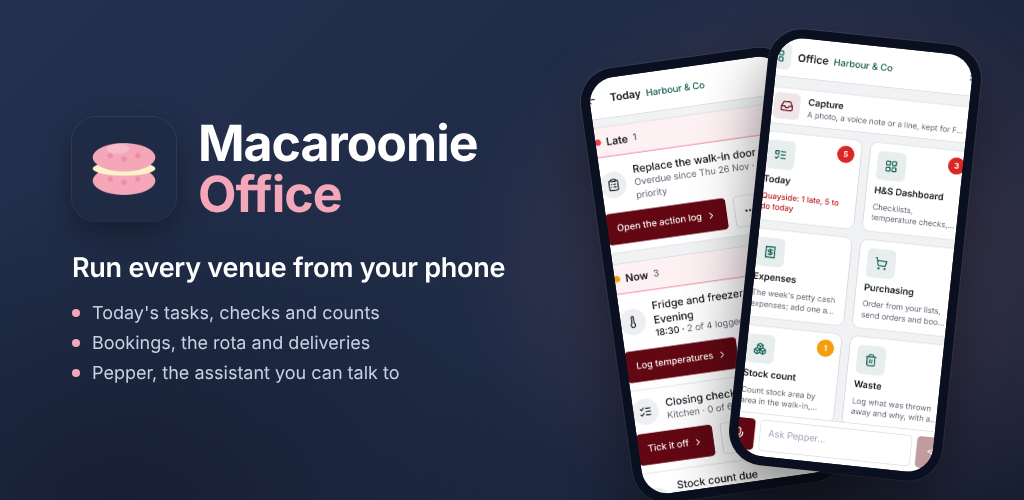
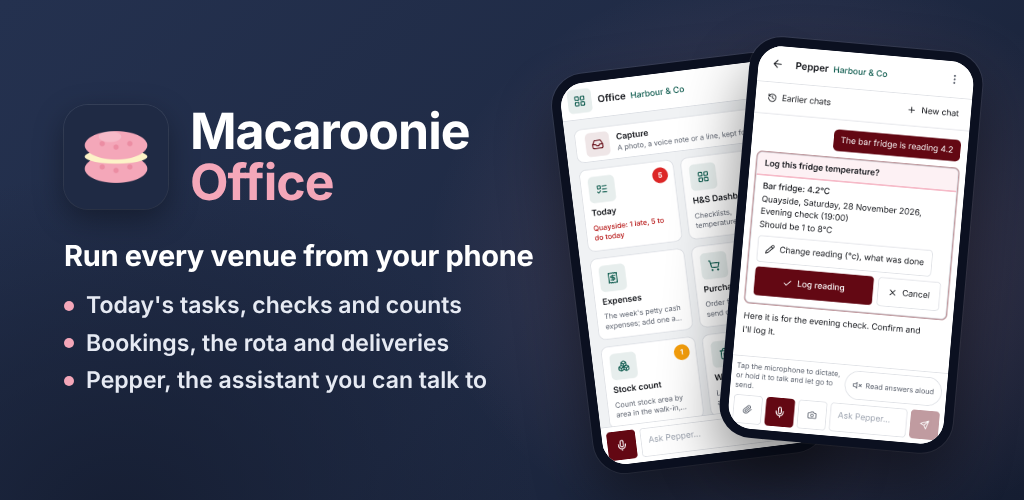
Office app store assets: review fixes (rota, fridge sheet, feature graphic, Pepper screenshot, listing notes)
- Rota: a usual week per person with the days off early in the week, so
  Saturday has the most on (9) and every service has a chef; the fridge
  temps and the count lines are credited to cooks on today's rota.
- Fridge check: taken without the 12 px band above the sheet's backdrop
  (the sheet sits in Today's space-y list, a page bug), Today from its top
  behind it.
- Feature graphic: each phone's screen is 9:16, so no screen is cut off at
  the sides; Pepper in front; bigger, brighter bullet lines.
- New 02-pepper.png: a fridge reading said aloud and its card to confirm,
  from Pepper's real chat and tool on the demo data (the API tests' model
  stand-in says Pepper's words; no model is called). Screenshots renumbered
  01-hub to 07-rota.
- store-listing.md: keep the reviewers' demo account working while the app
  is listed; Files and docs in Data safety; users do exchange content
  (notices through Pepper, shared records) for the content rating; a short
  delete-account page for Play's deletion link.

Claude-Session: https://claude.ai/code/session_01N2DW333qJQDiQd2vhFU15s

diff --git a/office-app/store-assets/android/feature-graphic.html b/office-app/store-assets/android/feature-graphic.html
@@ -1,41 +1,44 @@
 <!doctype html>
 <!-- The Google Play feature graphic (1024 x 500), drawn by make-assets.mjs:
      the app icon, the name and what it is for on the brand navy, with two of
-     the phone screenshots in a plain frame (no maker's device or marks). The
-     words stay inside the middle of the picture, where Play never crops. -->
+     the phone screenshots in a plain frame (no maker's device or marks). Each
+     frame's screen is 9:16, the screenshots' own shape, so the whole of each
+     screen shows, nothing cut off its sides. The words and both phones stay
+     well inside the edges, where Play may crop. -->
 <html lang="en">
 <head>
 <meta charset="utf-8">
 <title>Macaroonie Office feature graphic</title>
 <style>
-  :root { --navy: #1f2a44; --navy-deep: #151d31; --pink: #f4a7b9; --cream: #fbf3cd; --ink: #ffffff; --soft: #c9d1e3; }
+  :root { --navy: #1f2a44; --navy-deep: #151d31; --pink: #f4a7b9; --ink: #ffffff; --soft: #e6eaf3; }
   * { box-sizing: border-box; margin: 0; padding: 0; }
   html, body { width: 1024px; height: 500px; overflow: hidden; background: var(--navy); }
   body { font-family: Inter, 'Helvetica Neue', Arial, sans-serif; color: var(--ink); position: relative; }
   .glow { position: absolute; inset: 0; background:
-    radial-gradient(520px 420px at 820px 260px, rgba(244, 167, 185, 0.20), transparent 70%),
+    radial-gradient(520px 420px at 790px 260px, rgba(244, 167, 185, 0.20), transparent 70%),
     radial-gradient(600px 500px at 120px 520px, rgba(21, 29, 49, 0.9), transparent 70%),
     linear-gradient(135deg, #24314f 0%, var(--navy) 55%, var(--navy-deep) 100%); }
-  .words { position: absolute; left: 72px; top: 0; bottom: 0; width: 520px; display: flex; flex-direction: column; justify-content: center; gap: 0; }
+  .words { position: absolute; left: 64px; top: 0; bottom: 0; width: 480px; display: flex; flex-direction: column; justify-content: center; }
   .brand { display: flex; align-items: center; gap: 22px; }
   .brand img { width: 104px; height: 104px; border-radius: 24px; box-shadow: 0 10px 30px rgba(0, 0, 0, 0.35), 0 0 0 1px rgba(255, 255, 255, 0.10); }
   h1 { font-size: 50px; line-height: 1.02; font-weight: 700; letter-spacing: -0.02em; }
   h1 span { display: block; color: var(--pink); }
-  .line { margin-top: 30px; font-size: 27px; line-height: 1.25; font-weight: 600; letter-spacing: -0.01em; }
-  ul { margin-top: 18px; list-style: none; display: grid; gap: 9px; }
-  li { font-size: 18px; color: var(--soft); display: flex; align-items: center; gap: 12px; }
-  li::before { content: ''; width: 8px; height: 8px; border-radius: 50%; background: var(--pink); flex: none; }
-  .phone { position: absolute; width: 214px; height: 438px; border-radius: 34px; background: #0b1020; padding: 9px;
+  .line { margin-top: 30px; font-size: 29px; line-height: 1.2; font-weight: 700; letter-spacing: -0.01em; }
+  ul { margin-top: 18px; list-style: none; display: grid; gap: 10px; }
+  li { font-size: 23px; line-height: 1.2; font-weight: 600; color: var(--soft); display: flex; align-items: center; gap: 12px; }
+  li::before { content: ''; width: 10px; height: 10px; border-radius: 50%; background: var(--pink); flex: none; }
+  /* The screen inside each frame: 216 x 384, exactly 9:16. */
+  .phone { position: absolute; width: 234px; height: 402px; border-radius: 32px; background: #0b1020; padding: 9px;
     box-shadow: 0 30px 60px rgba(0, 0, 0, 0.45), 0 0 0 1px rgba(255, 255, 255, 0.08); }
-  .phone img { width: 100%; height: 100%; border-radius: 26px; display: block; object-fit: cover; object-position: top; }
-  .back { left: 606px; top: 56px; transform: rotate(-8deg); }
-  .front { left: 748px; top: 36px; transform: rotate(6deg); }
+  .phone img { width: 216px; height: 384px; border-radius: 24px; display: block; object-fit: contain; background: #fff; }
+  .back { left: 572px; top: 62px; transform: rotate(-7deg); }
+  .front { left: 734px; top: 44px; transform: rotate(5deg); }
 </style>
 </head>
 <body>
   <div class="glow"></div>
-  <div class="phone back"><img src="screenshots/02-today.png" alt=""></div>
-  <div class="phone front"><img src="screenshots/01-hub.png" alt=""></div>
+  <div class="phone back"><img src="screenshots/01-hub.png" alt=""></div>
+  <div class="phone front"><img src="screenshots/02-pepper.png" alt=""></div>
   <div class="words">
     <div class="brand">
       <img src="../../assets/icon.png" alt="">

diff --git a/office-app/store-assets/android/store-listing.md b/office-app/store-assets/android/store-listing.md
@@ -70,18 +70,21 @@ Privacy policy: https://macaroonie.com/privacy
 | File | Pixels | Mode | Size | Play field |
 |---|---|---|---|---|
 | `icon-512.png` | 512 x 512 | RGBA, every pixel opaque | 24 KB | App icon (32-bit PNG) |
-| `feature-graphic-1024x500.png` | 1024 x 500 | RGB | 307 KB | Feature graphic (24-bit PNG, under 1 MB) |
+| `feature-graphic-1024x500.png` | 1024 x 500 | RGB | 316 KB | Feature graphic (24-bit PNG, under 1 MB) |
 | `screenshots/01-hub.png` | 1080 x 1920 | RGB | 166 KB | Phone screenshot 1: the home screen, with Capture, the tiles and Pepper's bar |
-| `screenshots/02-today.png` | 1080 x 1920 | RGB | 136 KB | Phone screenshot 2: Today, a late task and what to do now |
-| `screenshots/03-fridge-check.png` | 1080 x 1920 | RGB | 111 KB | Phone screenshot 3: logging the evening fridge check |
-| `screenshots/04-stock-count.png` | 1080 x 1920 | RGB | 121 KB | Phone screenshot 4: counting the walk-in, in boxes and grams |
-| `screenshots/05-guest-list.png` | 1080 x 1920 | RGB | 153 KB | Phone screenshot 5: tonight's guests, with notes and an allergy |
-| `screenshots/06-rota.png` | 1080 x 1920 | RGB | 153 KB | Phone screenshot 6: who is working today |
+| `screenshots/02-pepper.png` | 1080 x 1920 | RGB | 178 KB | Phone screenshot 2: Pepper, a fridge reading said aloud and its card to confirm |
+| `screenshots/03-today.png` | 1080 x 1920 | RGB | 136 KB | Phone screenshot 3: Today, a late task and what to do now |
+| `screenshots/04-fridge-check.png` | 1080 x 1920 | RGB | 119 KB | Phone screenshot 4: logging the evening fridge check |
+| `screenshots/05-stock-count.png` | 1080 x 1920 | RGB | 121 KB | Phone screenshot 5: counting the walk-in, in boxes and grams |
+| `screenshots/06-guest-list.png` | 1080 x 1920 | RGB | 159 KB | Phone screenshot 6: tonight's guests, with notes and an allergy |
+| `screenshots/07-rota.png` | 1080 x 1920 | RGB | 160 KB | Phone screenshot 7: who is working today, a Saturday |
 
-Upload the screenshots in that order. The data in them is invented: the
-group Harbour & Co, venues Quayside and West Pier, and staff and guests
-named by a first name and an initial. `make-assets.py` checks the sizes and
-modes again whenever it runs.
+Upload the screenshots in that order (Play takes up to 8). The data in them
+is invented: the group Harbour & Co, venues Quayside and West Pier, and
+staff and guests named by a first name and an initial. Pepper's chat in
+screenshot 2 is the real chat page and its real fridge check tool on that
+data; only Pepper's own words were written for it (no AI model was called).
+`make-assets.py` checks the sizes and modes again whenever it runs.
 
 ## Store settings
 
@@ -107,8 +110,13 @@ is restricted** and give Play's reviewers a way in:
   set a password for it in Auth0 so the reviewer doesn't need Google
   sign-in or an emailed code.
 - Put the username and password only in the Play Console's App access form,
-  never in this file, the repository or a chat. Change the password, or
-  remove the account, when the review is done.
+  never in this file, the repository or a chat.
+- Keep the demo account and its password working for as long as the app is
+  on Play: Play signs in with them again to review every update, and may
+  check the live app at any time. An update whose review can't get past the
+  sign-in is rejected. If the password ever changes, enter the new one in
+  the App access form at the same time. Keep the demo group to invented data
+  only.
 - Instructions for the reviewer, for example: "Open the app and tap Sign
   in. The phone's browser opens the Macaroonie sign-in page: enter the email
   and password above. If you are asked to choose a business, pick the demo
@@ -130,6 +138,10 @@ kept and 15 for what the app stores on the phone):
   history), used to improve the service and suggest pages.
 - **Photos**: only a photo or picture the person chooses to capture, attach
   or share to the app (Photos, optional).
+- **Files and docs** (optional): files the person attaches to Pepper's chat,
+  such as a PDF invoice or a CSV (the paperclip takes PDF, CSV, TSV, text,
+  Markdown and JSON files as well as pictures), for app functionality. The
+  Privacy policy's section 5 lists them ("any files you attach").
 - **Audio**: none. The phone's own speech recognition turns speech into
   words; only the words reach Macaroonie, and no audio is kept. Say so if
   the form asks about voice.
@@ -139,19 +151,36 @@ kept and 15 for what the app stores on the phone):
 - **Security**: all data is encrypted in transit (HTTPS).
 - **Deletion**: accounts are made by the employer, not in the app; a person
   can ask their employer, or info@macaroonie.com, to delete their account
-  and data. Give https://macaroonie.com/privacy as the web address where
-  Play asks for one.
+  and data. Play also asks for a web address where people can ask for their
+  account to be deleted, and that page must name the app (or Macaroonie) and
+  show the steps prominently. The Privacy policy is long and has no section
+  that does this, so it probably won't pass. Make a short page first (for
+  example macaroonie.com/delete-account) that says: ask your employer to
+  delete your account, or email info@macaroonie.com from the address you
+  sign in with; what is deleted (the account, and the sign-in with Auth0
+  when you ask); and what the business may keep and for how long (the
+  Privacy policy's section 9). Then give that page's address.
 - **Ads and tracking**: none; nothing is used for advertising.
 
 ### Content rating
 
 Fill in the questionnaire as a business tool: no violence, sexual content,
-bad language, drugs or gambling; no purchases; users don't talk to each
-other through the app or share content publicly. Pepper writes answers with
-an AI model for the business's own staff; answer Play's question on
-AI-generated content accordingly. The rating that should come out is the
-lowest for each region (Everyone, PEGI 3), but it is whatever the
-questionnaire gives.
+bad language, drugs or gambling; no purchases.
+
+Users can send each other text in the app: someone with Manage on Pepper
+(a manager) can ask Pepper to send a notice they word (a title and a short
+message) to the phones of a teammate or of everyone with a role (Pepper's
+send_notice, shown on a card to confirm first), and the records people
+enter (checks, counts, notes on bookings) are seen by their colleagues. So
+answer **yes** to the question on users interacting or exchanging content,
+and describe it as private messages and records between the staff of one
+business, who the employer invites and controls: nothing is shared
+publicly, there are no public profiles and no chat with strangers, and the
+app doesn't share the person's location. Pepper writes answers with an AI
+model for the business's own staff; answer Play's question on AI-generated
+content accordingly. The rating that should come out is still the lowest
+for each region (Everyone, PEGI 3), with Users Interact listed beside it,
+but it is whatever the questionnaire gives.
 
 ### Target audience and content
 

diff --git a/office-app/README.md b/office-app/README.md
@@ -175,11 +175,13 @@ Data safety, the content rating and the target audience.
   phones show), a 32-bit PNG with no transparent pixels: Play rounds the
   corners itself.
 - `feature-graphic-1024x500.png`: drawn from `feature-graphic.html` (the
-  icon, the name, a line and two of the screenshots on the brand navy).
-- `screenshots/01-hub.png` to `06-rota.png`: 1080 x 1920 (9:16), the phone
-  pages the app shows, with an invented group (Harbour & Co, venues
-  Quayside and West Pier, invented staff, guests and stock). No real
-  business, staff or guest is in them.
+  icon, the name, a line and two of the screenshots on the brand navy, each
+  in a frame whose screen is 9:16, so none of a screen is cut off).
+- `screenshots/01-hub.png` to `07-rota.png`: 1080 x 1920 (9:16), the phone
+  pages the app shows (the hub, Pepper, Today, the fridge check, the stock
+  count, the guest list and the rota), with an invented group (Harbour &
+  Co, venues Quayside and West Pier, invented staff, guests and stock). No
+  real business, staff or guest is in them.
 
 To take them again (after the phone pages change), on a computer with
 Postgres 16, Redis and Playwright, from the repo root:
@@ -191,7 +193,9 @@ python3 office-app/store-assets/android/make-assets.py
 ```
 
 `make-assets.mjs` fills the test database through the API (the API tests'
-sign-in stand-in: no real account, and no model is called), starts the API
+sign-in stand-in: no real account; Pepper's chat runs its real tools on the
+demo data against the tests' stand-in for the model, so no model is called
+and only Pepper's words are written in the script), starts the API
 and the admin on ports of their own (`API_PORT` 3091, `ADMIN_PORT` 5291),
 takes each screen in Chrome at 360 x 640 with a device scale of 3, draws
 the feature graphic and stops what it started. `make-assets.py` makes the
